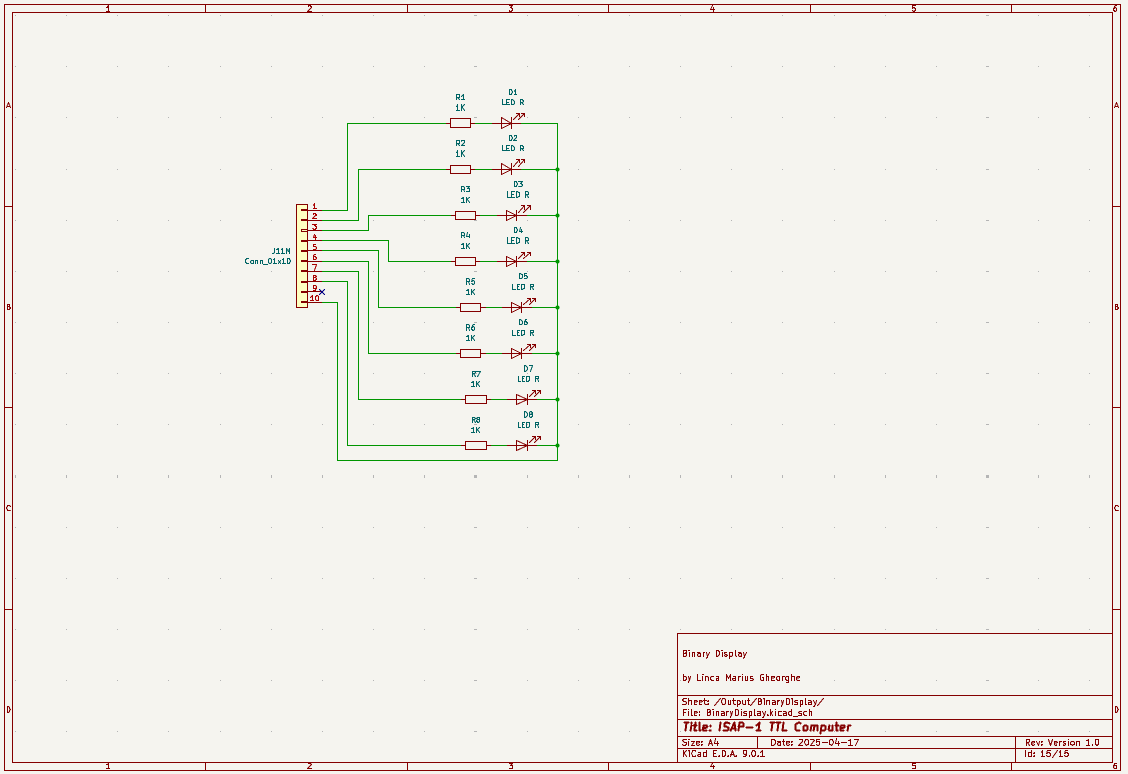
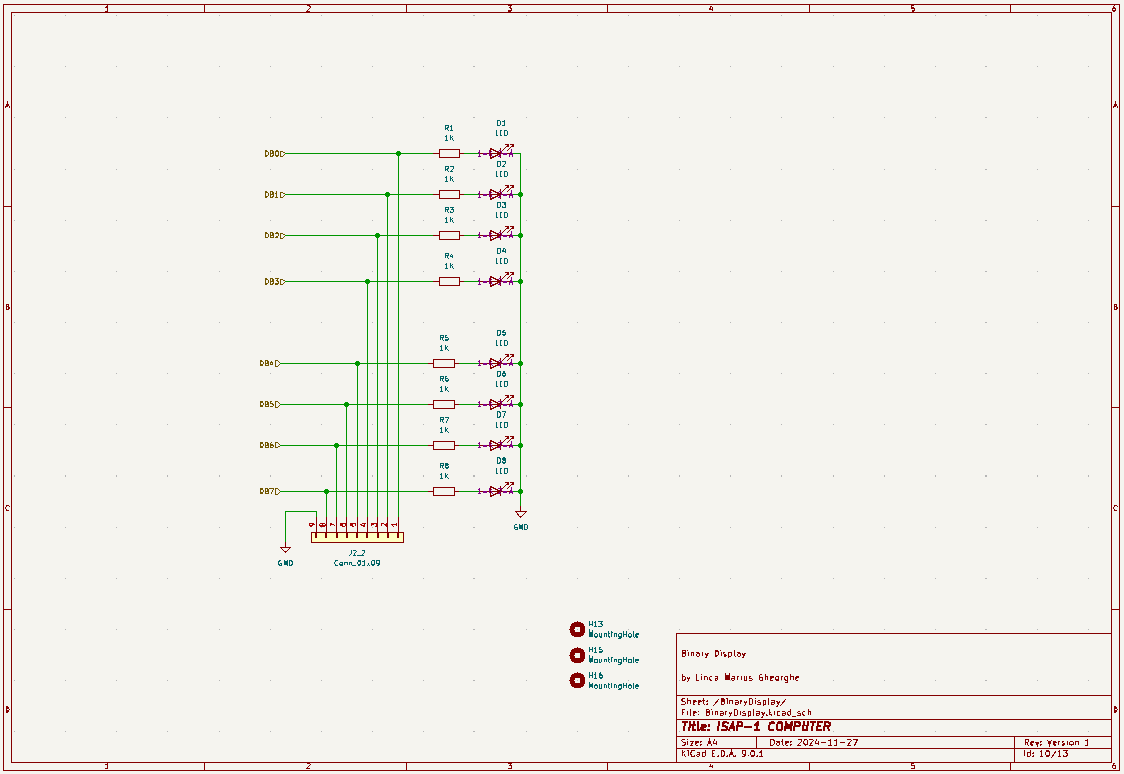
modified:   Pictures/Figure15.png

diff --git a/README.md b/README.md
@@ -198,9 +198,7 @@ The Binary Display consists of eight LEDs connected to eight current limiting re
 
 The current is limited by resistors for a red LED to the value of (Voh – Vled) / (R + Rint) = (2.4V – 1.8V) / (1000 + 100) = 0.5 / 1100 = 0.5mA (theoretical).
 
-This module is designed to be attached as a daughterboard to the Output Device via connector J11.
-
-This way I can replace the Binary Display with a more advanced one without modifying the other modules of the computer.
+I added the connectors marked J2_1 and J2_2 for connection to the Base PCB in case the Binary Display PCB separates from the computer PCB.
 
 The schematic does not present any other changes compared to the original one.
 
